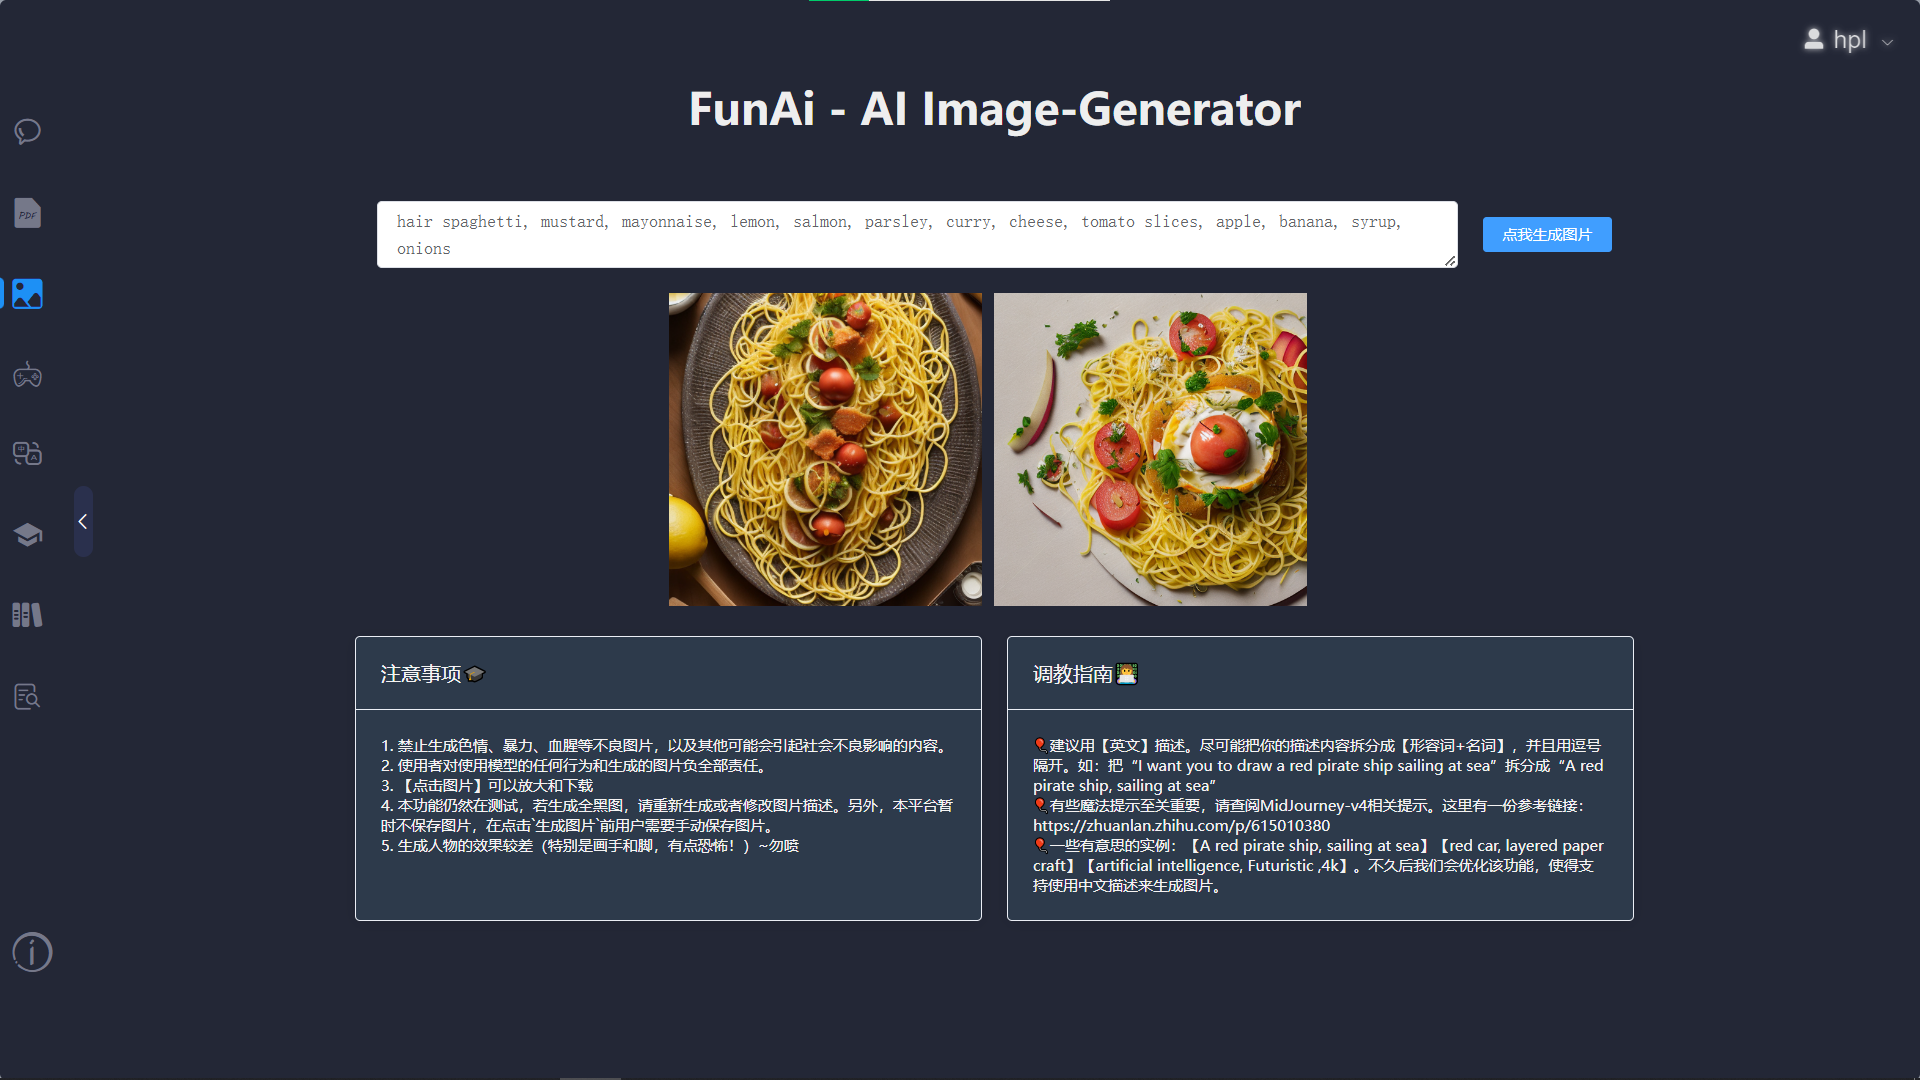
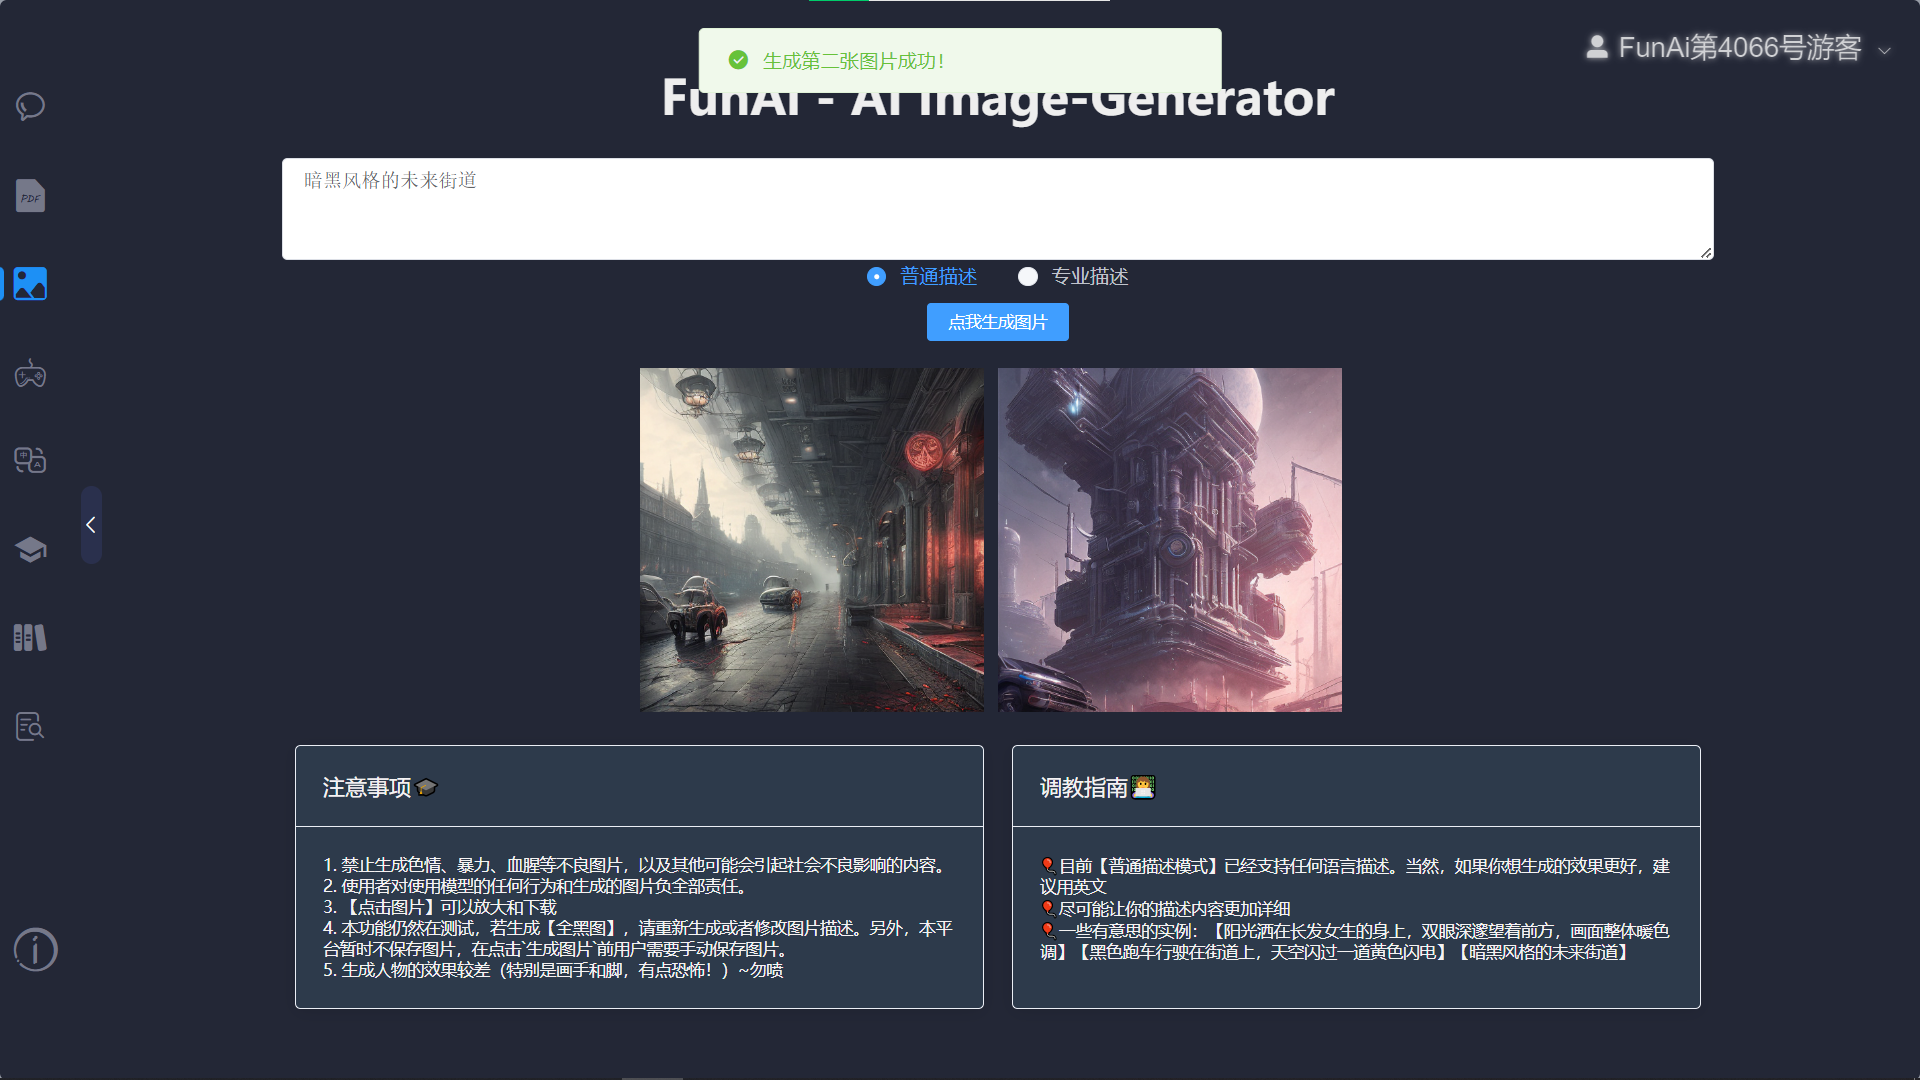
UPDATE README

diff --git a/README.md b/README.md
@@ -13,8 +13,8 @@
 
 
 ## 🤗 持续更新
-
-- [2023-05-06] 新增文生图模型，体验地址：https://funai.space/#/ImgGenerate
+- [2023-05-07] 优化文生图模型，支持中文大白话描述，体验地址：https://funai.space/#/ImgGenerate
+- [2023-05-06] 新增文生图模型(不支持中文)
 - [2023-05-05] 修改apiKey轮询bug
 - [2023-05-03] 新增对openai免费Key限制所做的优化的轮询调度算法
 
